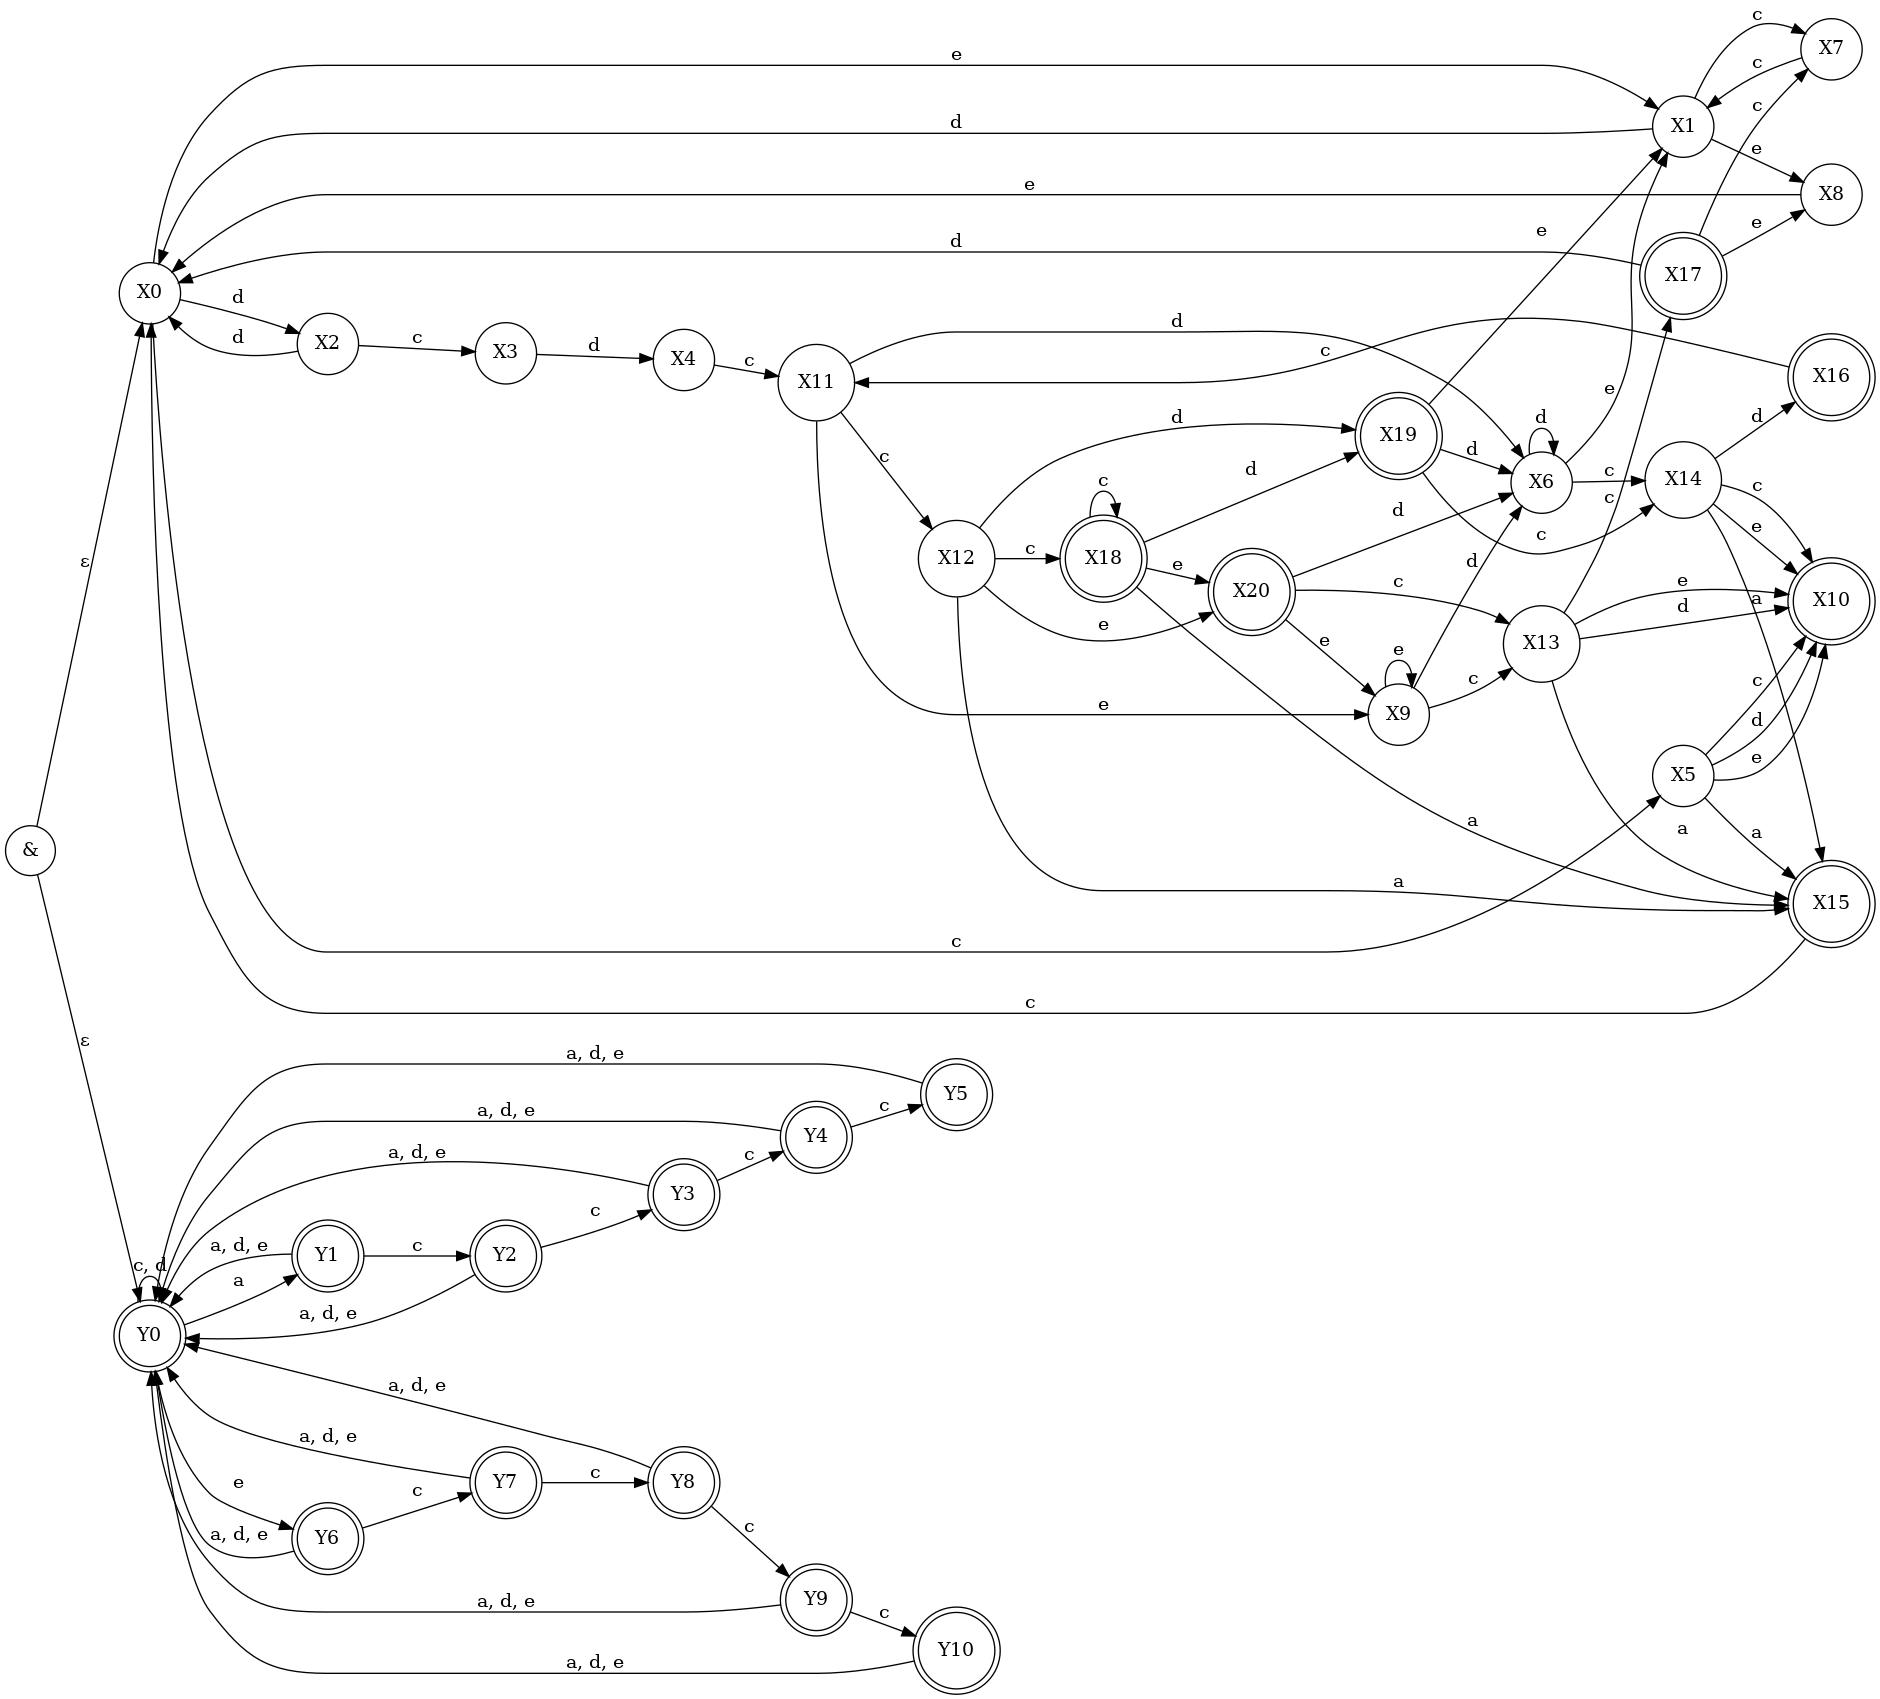
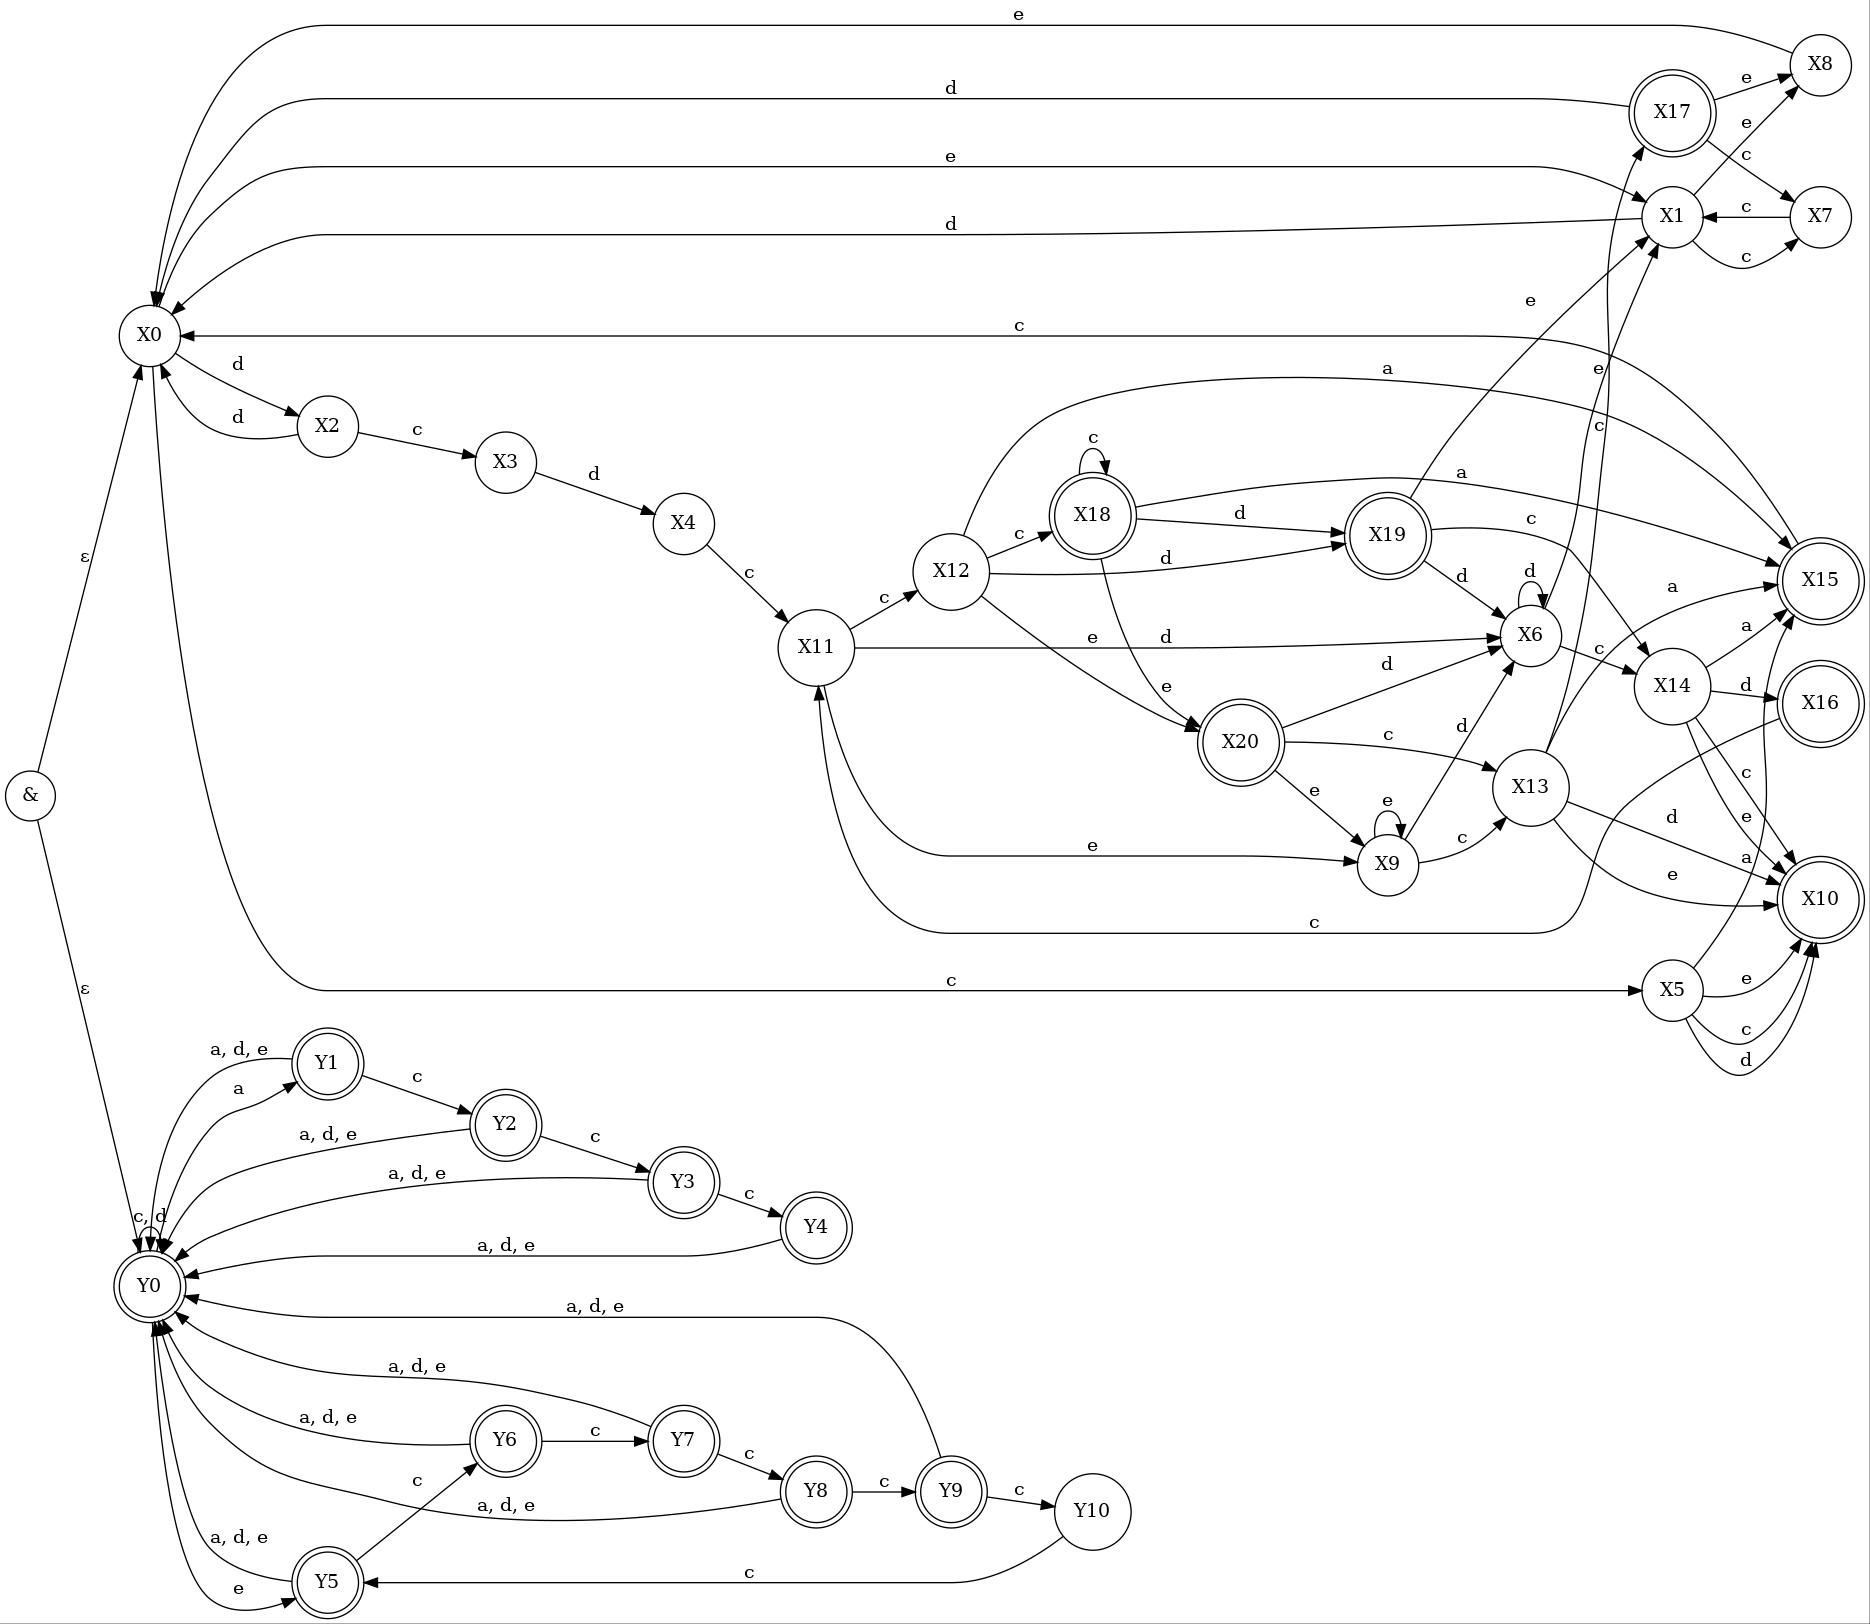
Исправил старый пка, добавил новый пка

diff --git a/lab2/test/fuzz.cpp b/lab2/test/fuzz.cpp
@@ -59,8 +59,8 @@ int getLetterNum(const char c, const string& alphabet){
 //по букве 'd' в состояние 2,
 //по букве 'e' в состояние 1
 //также возвращаем массив финальных состояний
-pair<array<array<int, 4>, 21>, array<int, 7>> initDFA(){
-    array<array<int, 4>, 21> dfa = {{
+pair<vector<vector<int>>, vector<int>> initDFA(){
+    vector<vector<int>> dfa = {{
         {-1, 5, 2, 1},
         {-1, 7, 0, 8},
         {-1, 3, 0, -1},
@@ -84,14 +84,14 @@ pair<array<array<int, 4>, 21>, array<int, 7>> initDFA(){
         {-1, 13, 6, 9}
     }};
 
-    array<int, 7> dfaFinalStates;
-    dfaFinalStates[0] = 10;
-    dfaFinalStates[1] = 15;
-    dfaFinalStates[2] = 16;
-    dfaFinalStates[3] = 17;
-    dfaFinalStates[4] = 18;
-    dfaFinalStates[5] = 19;
-    dfaFinalStates[6] = 20;
+    vector<int> dfaFinalStates;
+    dfaFinalStates.push_back(10);
+    dfaFinalStates.push_back(15);
+    dfaFinalStates.push_back(16);
+    dfaFinalStates.push_back(17);
+    dfaFinalStates.push_back(18);
+    dfaFinalStates.push_back(19);
+    dfaFinalStates.push_back(20);
     return {dfa, dfaFinalStates};
 }
 
@@ -101,7 +101,7 @@ pair<array<array<int, 4>, 21>, array<int, 7>> initDFA(){
 //второй - по букве 'c' и так далее
 //если нельзя попасть ни в какую вершину, то -1
 //также возвращаем массив финальных состояний 
-pair<vector<vector<set<int>>>, array<int, 1>> initNFA(){
+pair<vector<vector<set<int>>>, vector<int>> initNFA(){
     vector<vector<set<int>>> edges;
 
     //начинаем для вершины с номером 0
@@ -213,17 +213,17 @@ pair<vector<vector<set<int>>>, array<int, 1>> initNFA(){
             {-1}
         }
     );
-    array<int, 1> nfaFinalStates;
-    nfaFinalStates[0] = 14;
+    vector<int> nfaFinalStates;
+    nfaFinalStates.push_back(14);
     return {edges, nfaFinalStates};
 }
 
-//проверка на принадлежность ПКА
+//задаём ПКА1
 //также как с дка, но вернем 3 массива
 //первый - с переходами
-//второй и третий - для финальных состояний в 1-ой и 2-ой частях ПКА соответственно
-tuple<array<array<int, 4>, 32>, array<int, 7>, array<int, 11>> initAFA(){
-    array<array<int, 4>, 32> afa = {{
+//второй и третий - для финальных состояний в 1-ой и 2-ой частях ПКА1 соответственно
+tuple<vector<vector<int>>, vector<int>, vector<int>> initAFA1(){
+    vector<vector<int>> afa = {{
         //первая часть:
         {-1, 5, 2, 1},
         {-1, 7, 0, 8},
@@ -246,56 +246,78 @@ tuple<array<array<int, 4>, 32>, array<int, 7>, array<int, 11>> initAFA(){
         {15, 18, 19, 20},
         {-1, 14, 6, 1},
         {-1, 13, 6, 9},
+
         //вторая часть:
-        {22, 21, 21, 27},
+        {22, 21, 21, 26},
         {21, 23, 21, 21},
         {21, 24, 21, 21},
         {21, 25, 21, 21},
-        {21, 26, 21, 21},
         {21, -1, 21, 21},
+
+        {21, 27, 21, 21},
         {21, 28, 21, 21},
         {21, 29, 21, 21},
         {21, 30, 21, 21},
         {21, 31, 21, 21},
-        {21, -1, 21, 21}
+        {-1, 22, -1, -1}
     }};
 
-    array<int, 7> afaFinalStates1;
-    afaFinalStates1[0] = 10;
-    afaFinalStates1[1] = 15;
-    afaFinalStates1[2] = 16;
-    afaFinalStates1[3] = 17;
-    afaFinalStates1[4] = 18;
-    afaFinalStates1[5] = 19;
-    afaFinalStates1[6] = 20;
+    vector<int> afaFinalStates1{10, 15, 16, 17, 18, 19, 20};
 
-    array<int, 11> afaFinalStates2;
-    afaFinalStates2[0] = 21;
-    afaFinalStates2[1] = 22;
-    afaFinalStates2[2] = 23;
-    afaFinalStates2[3] = 24;
-    afaFinalStates2[4] = 25;
-    afaFinalStates2[5] = 26;
-    afaFinalStates2[6] = 27;
-    afaFinalStates2[7] = 28;
-    afaFinalStates2[8] = 29;
-    afaFinalStates2[9] = 30;
-    afaFinalStates2[10] = 31;
+    vector<int> afaFinalStates2{21, 22, 23, 24, 25, 26, 27, 28, 29, 30};
     return {afa, afaFinalStates1, afaFinalStates2};
+}
+
+//задаём вторую часть ПКА2 как НКА
+pair<vector<vector<set<int>>>, vector<int>> initNFAForSecondPartInSecondAFA(){
+    vector<vector<set<int>>> edges;
+    edges.push_back({
+            {-1},
+            {0, 1},
+            {0},
+            {0}
+        }
+    );
+    edges.push_back({
+            {2},
+            {3},
+            {0, 3},
+            {0, 3}
+        }
+    );
+    edges.push_back({
+            {-1},
+            {0},
+            {-1},
+            {-1}
+        }
+    );
+    edges.push_back({
+            {-1},
+            {-1},
+            {-1},
+            {-1}
+        }
+    );
+    
+    vector<int> nfaFinalStates;
+    nfaFinalStates.push_back(2);
+    nfaFinalStates.push_back(3);
+    return {edges, nfaFinalStates};
+    
 }
 
 
 //проверка на принадлежность слова детерминированному конечному автомату
-bool checkDFA(const array<array<int, 4>, 21>& dfa, const string& word, const string& alphabet, const array<int, 7>& finalStates){
+bool checkDFA(const vector<vector<int>>& dfa, const string& word, const string& alphabet, const vector<int>& finalStates){
     int currentState = 0; //текущее состояние
     for (int i = 0; i < word.size(); i++){
         currentState = dfa[currentState][getLetterNum(word[i], alphabet)];
-        //cout << currentState << " " << word[i] << endl;
         if (currentState == -1){
             return false;
         }
     }
-    for (int i = 0; i < 7; i++){
+    for (int i = 0; i < finalStates.size(); i++){
         if (currentState == finalStates[i]){
             return true;
         }
@@ -304,7 +326,7 @@ bool checkDFA(const array<array<int, 4>, 21>& dfa, const string& word, const str
 }
 
 //проверка на принадлежность слова недетерминированному конечному автомату
-bool checkNFA(const vector<vector<set<int>>>& nfa, const string& word, const string& alphabet, const array<int,1> nfaFinalStates){
+bool checkNFA(const vector<vector<set<int>>>& nfa, const string& word, const string& alphabet, const vector<int>& nfaFinalStates){
     set<int> oldStates;
     set<int> newStates;
     oldStates.insert(0); //добавляем стартовую вершину
@@ -323,8 +345,10 @@ bool checkNFA(const vector<vector<set<int>>>& nfa, const string& word, const str
     }
 
     for (int i: oldStates){
-        if (i == nfaFinalStates[0]){
-            return true;
+        for (int j: nfaFinalStates){
+            if (i == j){
+                return true;
+            }
         }
     }
     return false;
@@ -335,18 +359,17 @@ bool checkNFA(const vector<vector<set<int>>>& nfa, const string& word, const str
 
 
 //проверка на принадлежность слова переключающемуся конечному автомату (ПКА)
-bool checkAFA(const array<array<int, 4>, 32>& dfa, const string& word, const string& alphabet, const array<int, 7>& finalStates1, const array<int, 11>& finalStates2){
+bool checkAFA1(const vector<vector<int>>& dfa, const string& word, const string& alphabet, const vector<int>& finalStates1, const vector<int>& finalStates2){
     int currentState = 21; //текущее состояние
     for (int i = 0; i < word.size(); i++){
         currentState = dfa[currentState][getLetterNum(word[i], alphabet)];
-        //cout << currentState << " " << word[i] << endl;
         if (currentState == -1){
             return false;
         }
     }
 
     bool doesBelongSecondPart = false;
-    for (int i = 0; i < 11; i++){
+    for (int i = 0; i < finalStates2.size(); i++){
         if (currentState == finalStates2[i]){
             doesBelongSecondPart = true;
         }
@@ -363,7 +386,7 @@ bool checkAFA(const array<array<int, 4>, 32>& dfa, const string& word, const str
             return false;
         }
     }
-    for (int i = 0; i < 7; i++){
+    for (int i = 0; i < finalStates1.size(); i++){
         if (currentState == finalStates1[i]){
             return true;
         }
@@ -373,14 +396,36 @@ bool checkAFA(const array<array<int, 4>, 32>& dfa, const string& word, const str
 
 }
 
+//проверка для ПКА2
+//одна из частей - дка, другая - нка
+bool checkAFA2(const string& word, const string& alphabet,
+    const vector<vector<set<int>>>& nfa, const vector<int>& nfaFinalStates, 
+    const vector<vector<int>>& dfa, const vector<int>& dfaFinalStates){
+    bool r3 = checkNFA(nfa, word, alphabet, nfaFinalStates);
+    if (!r3){
+        return false;
+    }
+
+    bool r4 = checkDFA(dfa, word, alphabet, dfaFinalStates);
+    if (!r4){
+        return false;
+    }
+
+    return true;
+
+}
+
+
+
 
 
 int main(){
     string alphabet = "acde";
 
     //ДКА
-    array<array<int, 4>, 21> dfa;
-    array<int, 7> dfaFinalStates;
+    vector<vector<int>> dfa;
+    vector<int> dfaFinalStates;
+    
     tie(dfa, dfaFinalStates) = initDFA();
 
     //НКА
@@ -388,32 +433,43 @@ int main(){
     //первый сет содержит в себе номера вершин, в которые можно попасть по букве 'a' 
     //второй - по букве 'c' и так далее
     vector<vector<set<int>>> nfa; 
-    array<int, 1> nfaFinalStates;
+    vector<int> nfaFinalStates;
     tie(nfa, nfaFinalStates) = initNFA();
 
-    //ПКА
-    array<array<int, 4>, 32> afa;
-    array<int, 7> afaFinalStates1;
-    array<int, 11> afaFinalStates2;
-    tie(afa, afaFinalStates1, afaFinalStates2) = initAFA();
+    //ПКА1
+    vector<vector<int>> afa;
+    vector<int> afaFinalStates1;
+    vector<int> afaFinalStates2;
+    tie(afa, afaFinalStates1, afaFinalStates2) = initAFA1();
+
+    //ПКА2
+    vector<vector<set<int>>> nfaForSecondPartInSecondAFA; 
+    vector<int> nfaForSecondPartInSecondAFAFinalStates;
+    tie(nfaForSecondPartInSecondAFA, nfaForSecondPartInSecondAFAFinalStates) = initNFAForSecondPartInSecondAFA();
 
     int isError = 0;
     string errorWord = "";
-    //будем генерировать слова длины от 0 до 100
-    for (int i = 0; i < 100; i++){
-        //по 1000 слов каждой длины
-        for (int j = 0; j < 1000; j++){
+
+    for (int i = 1; i < 60; i++){
+        if (isError){
+            break;
+        }
+        for (int j = 0; j < 100000; j++){
             string word = getRandomString(i, alphabet);
-            //string word = "aeeed";
+            //string word = "eccccccdca";
+            //eccccccdcd
+            word = "cc";
             bool r1 = checkRegex(word);
             bool r2 = checkDFA(dfa, word, alphabet, dfaFinalStates);
             bool r3 = checkNFA(nfa, word, alphabet, nfaFinalStates);
-            bool r4 = checkAFA(afa, word, alphabet, afaFinalStates1, afaFinalStates2);
-            if ((r1 != r2) || (r1 != r3) || (r1 != r4)){
-                //cout << 57 << r1 << r2 << r3 << r4 << endl;
+            bool r4 = checkAFA1(afa, word, alphabet, afaFinalStates1, afaFinalStates2);
+            bool r5 = checkAFA2(word, alphabet, nfaForSecondPartInSecondAFA, nfaForSecondPartInSecondAFAFinalStates, dfa, dfaFinalStates);
+            if ((r1 != r2) || (r1 != r3) || (r1 != r4)|| (r1 != r5)){
+                cout << 57 << r1 << r2 << r3 << r4 << endl;
                 isError = 1;
                 if (errorWord == ""){
                     errorWord = word;
+                    break;
                 }
             }
         }

diff --git a/lab2/README.md b/lab2/README.md
@@ -51,18 +51,18 @@
 | dcdce | - | - | - | - | - | - | - | + | . |
 | dcd | - | - | - | - | - | - | - | - | + |
 
-# Возможно малый ПКА
+# ПКА1
 
 Заметим, что исходная регулярка не допускает строк, которые содержат в качестве подстроки 
-"accccc" и "eccccc". Объяснение: заметим, что 2 и более буквы "c" подряд могут идти в следующих ситуациях: 
+"acccc" и "ecccccS", где первый символ строки S отличен от "c". Объяснение: заметим, что 2 и более буквы "c" подряд могут идти в следующих ситуациях: 
 - `dcdc*c(d*|e*e)`.  
 Но тут перед c*c идёт буква "d".
 - `e(cc)*(ee|d)` (из-за звездочки). 
-Но тогда длина (cc)^n будет четной
+Но тогда длина (cc)^n будет чётной.
 - если сконкатенировать `caс` с `c(a|c|d|e)`.   
-Но тут получится максимум подстрока "accc", а мы говорим про "accccc".
+Но тут получится максимум подстрока "accc", а мы говорим про "acccc".
 
-Возможно малый ПКА представлен на картинке pka.jpg
+ПКА1 представлен на картинке pka.jpg
 ![МалПКА](./img/pka.jpg)
 
 Таблица:
@@ -75,6 +75,12 @@
 | dcd | . | . | . | - | + | + |
 | ec | . | . | . | . | - | + | 
 | a | . | . | . | . | . | - |
+
+# ПКА2
+
+Заметим, что все буквы "a" кроме последней должны быть в конструкции "cac".  
+ПКА1 представлен на картинке pka2.jpg
+![МалПКА](./img/pka2.jpg)
 
 # Расширенное регулярное выражение
 
